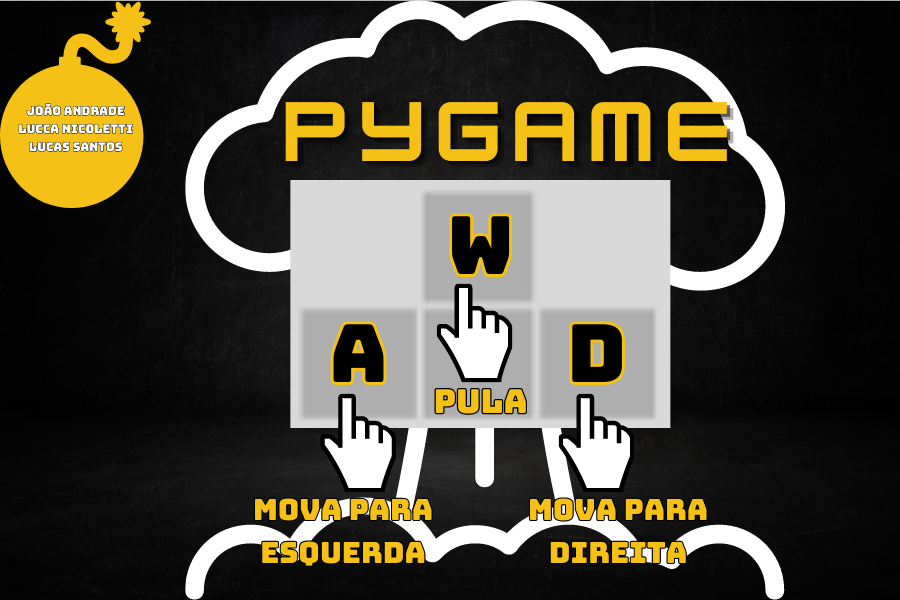
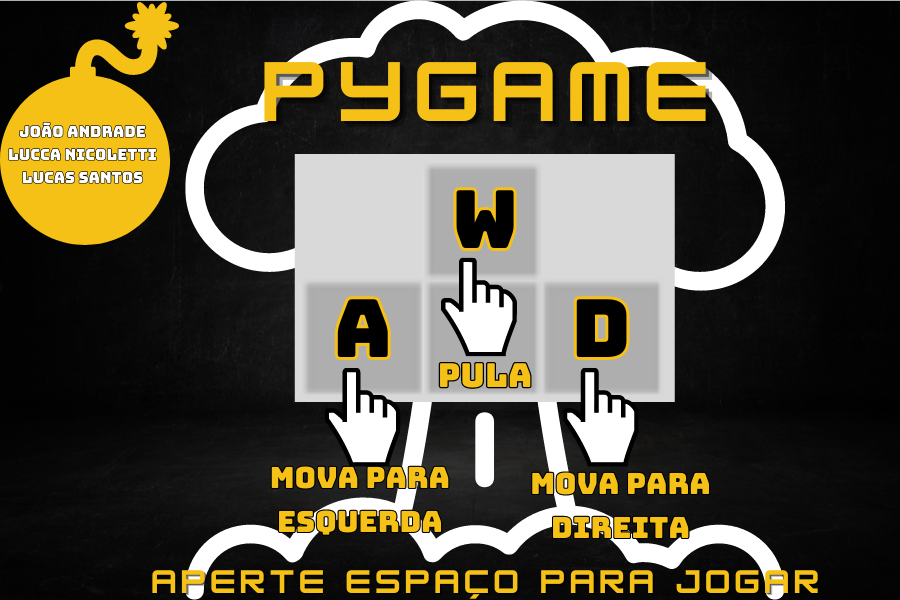
correção da tela de inicio

Changed region(s): [[0.1556, 0.09, 0.9333, 1.0], [0.0, 0.0, 0.2178, 0.42]]

diff --git a/jogo_final.py b/jogo_final.py
@@ -83,14 +83,12 @@ def menu_principal():
                 pygame.quit()
                 quit()
             elif evento.type == pygame.KEYDOWN:
-                if evento.key == pygame.K_SPACE or evento.key == pygame.K_w or evento.key == pygame.K_a or evento.key == pygame.K_d:
+                if evento.key == pygame.K_SPACE:
                     return  # Retorna da função e inicia o jogo
 
         janela.blit(menu_img, (0, 0))
         pygame.display.update()
         clock.tick(FPS)
-
-
 
 
 def inicializar_jogo():
@@ -107,11 +105,6 @@ def inicializar_jogo():
     pulando = False
     vida_jogador = 3
     pontos = 0
-
-
-
-
-
 
 
 # ========== Inicia estruturas de dados ==========
